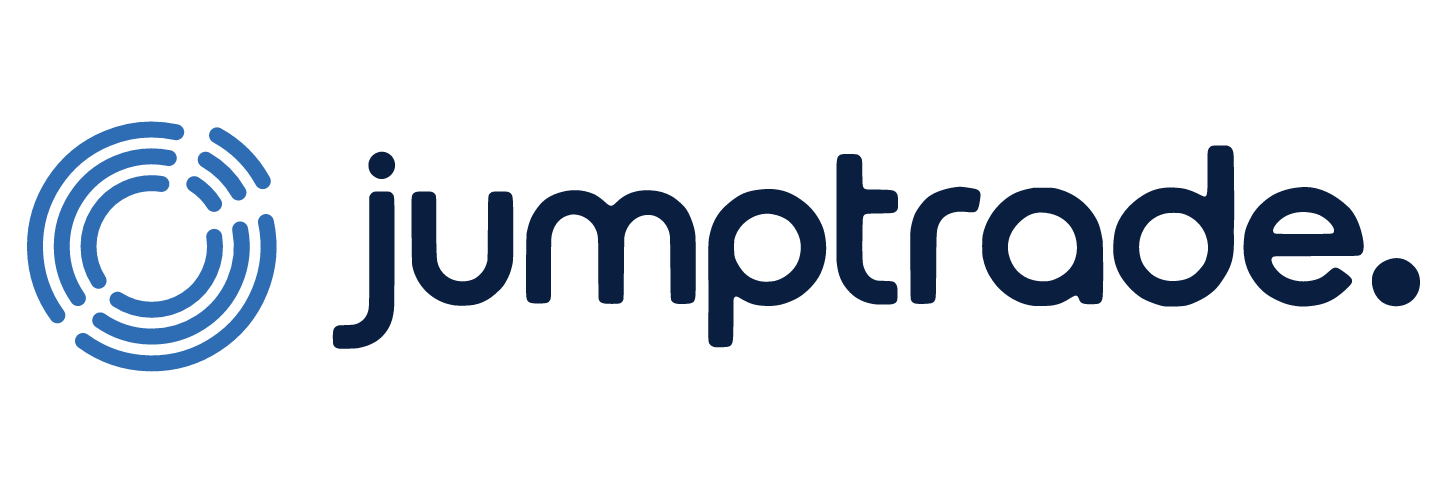
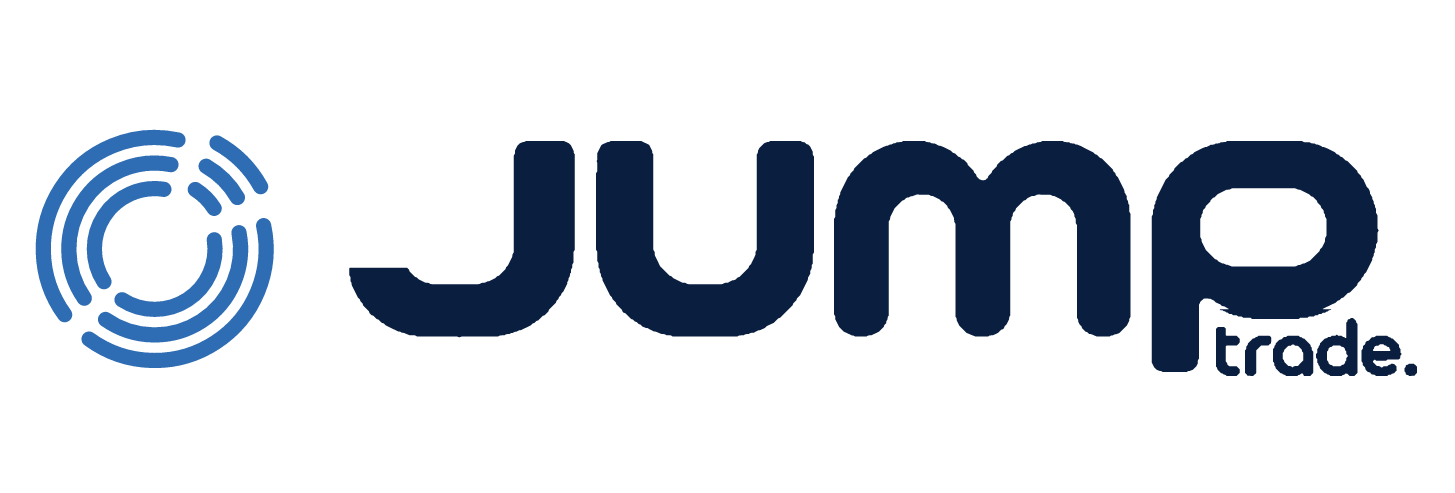
Keep the JUMP + trade. lockup exactly; only its circles become tile D's rings
Jason's correction: no 'jumptrade.' wordmark. The lockup is the a876967 jump-lockup.svg byte-for-byte (viewBox, JUMP, trade.)
with only the two-tone circles replaced by tile D's 9 white arcs, same centre (112,112) and outer size (111) as the old circles.
Applied everywhere the branch touched: v2 header/sidebar, landing, share tile, all emails + invite + unsubscribe, classic
lockups; rings alone for mark-only spots. Header/email image sizes back to the lockup's aspect (129x26, 240x49, 180x37).

Changed region(s): [[0.2165, 0.2738, 0.9897, 0.7606], [0.0, 0.2434, 0.1856, 0.7606]]

diff --git a/web/v2/v2.js b/web/v2/v2.js
@@ -210,7 +210,7 @@ const RIB="<svg class=\"ribbon\" width=\"160\" height=\"236\" viewBox=\"0 0 160 
   const skel = (n) => Array.from({ length: n || 3 }, (_, i) => '<div class="skel" style="width:' + (90 - i * 15) + '%"></div>').join('');
   // first-load placeholder rows, each as tall as the row that replaces it, so nothing below jumps when the data lands
   const skelRows = (n, h) => '<div class="card rows" style="padding:2px 14px">' + Array.from({ length: n }, (_, i) => '<div class="row skr" style="min-height:' + h + 'px!important"><div class="skel" style="width:' + (78 - (i % 3) * 14) + '%"></div></div>').join('') + '</div>';
-  const topbar = () => '<div class="top tc"><a class="ib" href="#menu" aria-label="All pages">' + ic('menu') + '</a><span class="brand"><img src="/v2/img/jump-lockup.svg?v=5" alt="jumptrade." width="141" height="26"></span><div class="acts">' + (REAL || !/^(today|portfolio)$/.test(route().v) ? '' : DEMO) + (V2_STAGE >= 3 ? '<a class="ib" href="#alerts" aria-label="Alerts">' + ic('bell') + (alertCount() ? '<em class="bdot"></em>' : '') + '</a>' : '<a class="ib" href="#calendar" aria-label="Alerts and events">' + ic('bell') + '<em class="bdot"></em></a>') + '</div></div>';
+  const topbar = () => '<div class="top tc"><a class="ib" href="#menu" aria-label="All pages">' + ic('menu') + '</a><span class="brand"><img src="/v2/img/jump-lockup.svg?v=5" alt="jumptrade." width="129" height="26"></span><div class="acts">' + (REAL || !/^(today|portfolio)$/.test(route().v) ? '' : DEMO) + (V2_STAGE >= 3 ? '<a class="ib" href="#alerts" aria-label="Alerts">' + ic('bell') + (alertCount() ? '<em class="bdot"></em>' : '') + '</a>' : '<a class="ib" href="#calendar" aria-label="Alerts and events">' + ic('bell') + '<em class="bdot"></em></a>') + '</div></div>';
   const backbar = (title, href) => '<div class="top"><div style="display:flex;align-items:center;gap:6px;min-width:0"><a class="ib" style="margin-left:-10px" href="' + href + '" aria-label="Back">' + ic('back', 22) + '</a><b class="tbt">' + title + '</b></div><div class="acts">' + (REAL || route().v !== 'connect' ? '' : DEMO) + '</div></div>';
   const head = (t, sub) => { const p = t.lastIndexOf(' '); return '<h1>' + (p > 0 ? t.slice(0, p) + ' <em>' + t.slice(p + 1) + '</em>' : '<em>' + t + '</em>') + '</h1>' + (sub ? '<p class="sub">' + sub + '</p>' : ''); };
   const sh = (t, link, href, icon, th) => '<div class="sh"><h2><span class="shi">' + ic(icon || 'layers', 16) + '</span>' + ((th || href) && (th || href) !== '#hold' && (th || href) !== '#edit' ? '<a class="sht" href="' + (th || href) + '">' + t + '</a>' : t) + '</h2>' + (link ? '<a href="' + href + '">' + link + '</a>' : '') + '</div>';

diff --git a/worker/mails.js b/worker/mails.js
@@ -116,7 +116,7 @@ export const CSS = 'a[x-apple-data-detectors],u+#body a,#MessageViewBody a{color
 // The whole email. {{UNSUB}} and {{UNSUB_ALL}} are filled in per recipient when it's sent.
 export function shell(o) {
   const html = '<!DOCTYPE html><html><head><meta charset="utf-8"><meta name="viewport" content="width=device-width,initial-scale=1"><meta name="color-scheme" content="light only"><meta name="format-detection" content="telephone=no,date=no,address=no,email=no,url=no"><meta name="x-apple-disable-message-reformatting"><title>' + E(o.subject) + '</title><style>' + CSS + '</style></head><body id="body">' +
-    '<div style="display:none;max-height:0;overflow:hidden;opacity:0">' + E(o.pre || '') + '&#8204;&nbsp;&#8204;&nbsp;&#8204;&nbsp;</div><div class="ph"><div class="hd" style="background-color:#0d2a52;background-image:linear-gradient(170deg,#163a6b,#071A36);color:#ffffff"><img src="' + ORIGIN + '/v2/img/email-logo-rings1118.png" alt="jumptrade." width="240" height="44" style="display:block;width:240px;max-width:100%;height:auto;border:0;color:#ffffff;font-size:22px;font-weight:700">' +
+    '<div style="display:none;max-height:0;overflow:hidden;opacity:0">' + E(o.pre || '') + '&#8204;&nbsp;&#8204;&nbsp;&#8204;&nbsp;</div><div class="ph"><div class="hd" style="background-color:#0d2a52;background-image:linear-gradient(170deg,#163a6b,#071A36);color:#ffffff"><img src="' + ORIGIN + '/v2/img/email-logo-rings1118.png" alt="jumptrade." width="240" height="49" style="display:block;width:240px;max-width:100%;height:auto;border:0;color:#ffffff;font-size:22px;font-weight:700">' +
     '<div class="kind">' + E(TYPES[o.type].name) + '</div><div class="hdd">' + ND(o.dateLine) + '</div>' + (o.headline ? '<div class="hdt" style="color:#ffffff">' + ND(o.headline) + '</div>' : '') +
     (o.tiles || '') + (o.sub ? '<div class="hdm">' + ND(o.sub) + '</div>' : '') + '</div><div class="body">' + o.cards.filter(Boolean).join('') +
     '<a class="btn" href="' + ORIGIN + '/' + (o.link || '#today') + '" style="color:#ffffff;text-decoration:none">See everything in jumptrade.</a></div>' +

diff --git a/worker/index.js b/worker/index.js
@@ -1265,7 +1265,7 @@ async function inviteReqRoutes(url, req, env) {
     const I = (await vget(env, 'invites')) || {}; I[h] = { label: r.name + ' (requested)', created: Date.now(), exp: Date.now() + 14 * 864e5 }; await vput(env, 'invites', I);
     const link = 'https://jumptrade.app/#invite=' + code; const nm = String(r.name).replace(/[<>&"]/g, '');
     const html = '<!doctype html><html><body style="margin:0;background:#ffffff;font-family:-apple-system,Segoe UI,Helvetica,Arial,sans-serif;color:#0B1B33"><table width="100%" cellpadding="0" cellspacing="0" style="max-width:520px;margin:0 auto;padding:28px 22px"><tr><td>' +
-      '<div style="background:#04122A;border-radius:14px;padding:18px 20px"><img src="https://jumptrade.app/v2/img/email-logo-rings1118.png" alt="jumptrade." width="180" height="33" style="display:block;width:180px;height:auto;border:0;color:#ffffff;font-size:20px;font-weight:700"></div>' +
+      '<div style="background:#04122A;border-radius:14px;padding:18px 20px"><img src="https://jumptrade.app/v2/img/email-logo-rings1118.png" alt="jumptrade." width="180" height="37" style="display:block;width:180px;height:auto;border:0;color:#ffffff;font-size:20px;font-weight:700"></div>' +
       '<h1 style="font-size:24px;margin:26px 0 8px">You’re in, ' + nm + '.</h1><p style="font-size:16px;line-height:24px;margin:0 0 20px;color:#33445C">Here’s your invite to the jumptrade beta: live movers and why they’re moving, what the big funds just bought, and paper portfolios you can track.</p>' +
       '<a href="' + link + '" style="display:inline-block;background:#1E4F94;color:#ffffff;text-decoration:none;font-weight:600;font-size:16px;padding:14px 22px;border-radius:12px">Join jumptrade</a>' +
       '<p style="font-size:13px;line-height:19px;color:#6B7A90;margin:22px 0 0">The link works once, for you, and expires in two weeks. On iPhone, open it in Safari, then Share → Add to Home Screen.</p><p style="font-size:12px;color:#8A97A8;margin:18px 0 0">Market data for research. Not investment advice.</p></td></tr></table></body></html>';

diff --git a/web/landing.js b/web/landing.js
@@ -8,7 +8,7 @@
   const shortD = (iso) => { const d = new Date(iso + 'T12:00:00'); return isFinite(d) ? d.toLocaleDateString('en-US', { month: 'short', day: 'numeric' }) : ''; };
 
   const html = () => '<div class="lp">' +
-    '<header class="lpTop"><img src="/v2/img/jump-lockup.svg?v=5" alt="jumptrade." width="141" height="26"><button class="lpLink" data-lp="code">Sign in</button></header>' +
+    '<header class="lpTop"><img src="/v2/img/jump-lockup.svg?v=5" alt="jumptrade" width="129" height="26"><button class="lpLink" data-lp="code">Sign in</button></header>' +
     '<section class="lpHero"><div class="lpPitch">' +
       '<h1>Know before you jump.</h1>' +
       '<p class="lpSub">See what’s moving right now, why it’s moving, and what the biggest funds just bought. One fast app for people who trade.</p>' +

diff --git a/tools/brand_rings/make.py b/tools/brand_rings/make.py
@@ -1,8 +1,6 @@
-"""jumptrade. rings brand set (Nov 18): the app tile D rings next to the white 'jumptrade.' wordmark, everywhere.
-
-Rings: the exact 9 arcs from tools/app_icon/icon-512.svg (tile D: radii 222/316/410, stroke 56, on a 1024 grid).
-Wordmark: the white rounded 'jumptrade.' from the logo Jason picked (the right-hand part of /workspace/jumptrade-logo-white.svg,
-embedded below so this script runs from the repo alone).
+"""jumptrade. rings brand set (Nov 18): the existing lockup (big rounded 'JUMP' + small 'trade.' under the P, exactly as in
+web/v2/img/jump-lockup.svg at a876967, kept here as jump_lockup_a876967.svg) with ONLY its two-tone circles swapped for
+app tile D's rings: the exact 9 white arcs from tools/app_icon/icon-512.svg, same centre and outer size as the old circles.
 
 Run from the repo root:  python3 tools/brand_rings/make.py
 Needs: resvg_py, Pillow; playwright + Chrome for the share tile (it uses the Poppins font in web/fonts).
@@ -18,27 +16,24 @@ HERE = os.path.dirname(os.path.abspath(__file__))
 ICON = open(os.path.join(ROOT, 'tools/app_icon/icon-512.svg')).read()
 ARCS = re.findall(r'<path d="(M[^"]+)" fill="none" stroke="#FFFFFF" stroke-width="56.00"', ICON)
 assert len(ARCS) == 9, len(ARCS)
-WORD = open(os.path.join(HERE, 'wordmark.d')).read().strip()  # 'jumptrade.' outline, x 202..674, y 16..104
+OLD = open(os.path.join(HERE, 'jump_lockup_a876967.svg')).read()
+# old circles: centre (112,112), outer edge 104 + 14/2 = 111 inside the group 'translate(0 -2.4) scale(0.8471)'
+RINGS_START = OLD.index('<g transform="translate(0 -2.4) scale(0.8471)"'); RINGS_END = OLD.index('<g transform="translate(241.3 0)">')
+TILE_OUTER = 410 + 28  # tile D outer ring radius + half its stroke
 
-# lockup geometry (units): rings diameter 108 centred at (54, 60); wordmark starts 24 to the right of the rings
-RD, RCX, RCY, GAP = 108.0, 54.0, 60.0, 24.0
-K = RD / 876.0  # 876 = outer edge of the 410 ring incl. half the 56 stroke, both sides
-WX = RD + GAP - 202.0
-VB_W, VB = RD + GAP + 472.0 + 2, '0 4 %.1f 112' % (RD + GAP + 472.0 + 2)
-
-def rings(fill='#FFFFFF', cx=RCX, cy=RCY, k=K, extra=''):
+def rings(fill='#FFFFFF', cx=512, cy=512, k=1.0):
     p = ''.join('<path d="%s"/>' % d for d in ARCS)
-    return ('<g transform="translate(%.3f %.3f) scale(%.6f) translate(-512 -512)" fill="none" stroke="%s" stroke-width="56" stroke-linecap="round"%s>%s</g>'
-            % (cx, cy, k, fill, extra, p))
+    return ('<g transform="translate(%.3f %.3f) scale(%.6f) translate(-512 -512)" fill="none" stroke="%s" stroke-width="56" stroke-linecap="round">%s</g>'
+            % (cx, cy, k, fill, p))
 
-def word(fill='#FFFFFF'):
-    return '<path transform="translate(%.1f 0)" fill="%s" fill-rule="evenodd" d="%s"/>' % (WX, fill, WORD)
-
-def lockup(ring='#FFFFFF', wm='#FFFFFF', defs=''):
-    return '<svg xmlns="http://www.w3.org/2000/svg" viewBox="%s">%s%s%s</svg>' % (VB, defs, rings(ring), word(wm))
+def lockup(ring='#FFFFFF', wm='#fff', defs=''):
+    new = '<g transform="translate(0 -2.4) scale(0.8471)">' + rings(ring, 112, 112, 111.0 / TILE_OUTER) + '</g>'
+    word = OLD[RINGS_END:].replace('fill="#fff"', 'fill="%s"' % wm)
+    head = OLD[:RINGS_START] + defs
+    return head + new + word
 
 def mark(stroke='#FFFFFF', defs=''):  # the rings alone, square, edge to edge
-    return '<svg xmlns="http://www.w3.org/2000/svg" viewBox="74 74 876 876">%s%s</svg>' % (defs, rings(stroke, 512, 512, 1.0))
+    return '<svg xmlns="http://www.w3.org/2000/svg" viewBox="74 74 876 876">%s%s</svg>' % (defs, rings(stroke))
 
 GRAD_ICE = '<defs><linearGradient id="g" gradientUnits="userSpaceOnUse" x1="74" y1="950" x2="950" y2="74"><stop offset="0" stop-color="#5B9BEA"/><stop offset=".55" stop-color="#93C0F6"/><stop offset="1" stop-color="#E1F0FF"/></linearGradient></defs>'
 GRAD_MID = '<defs><linearGradient id="g" gradientUnits="userSpaceOnUse" x1="74" y1="950" x2="950" y2="74"><stop offset="0" stop-color="#2E6DB4"/><stop offset=".5" stop-color="#5B9BEA"/><stop offset="1" stop-color="#93C0F6"/></linearGradient></defs>'
@@ -67,15 +62,15 @@ def main():
     tile = ICON.replace('<svg xmlns="http://www.w3.org/2000/svg" width="1024" height="1024" viewBox="0 0 1024 1024">',
                         '<svg xmlns="http://www.w3.org/2000/svg" viewBox="0 0 1024 1024"><clipPath id="rr"><rect width="1024" height="1024" rx="228"/></clipPath><g clip-path="url(#rr)">').replace('</svg>', '</g></svg>')
     save('v2/img/jump-icon.svg', tile)               # tile D with rounded corners
-    # emails: 3x of 240x44 so it stays sharp on phones; transparent, white, sits on the navy email header
-    em = png(white, 726); save('v2/img/email-logo-rings1118.png', em)
+    # emails: 3x of 240x49 so it stays sharp on phones; transparent, white, sits on the navy email header
+    em = png(white, 720); save('v2/img/email-logo-rings1118.png', em)
     save('v2/img/email-logo.png', png(white, 325))   # the older email name, in case an old email is still opened
     # the sign-in / install mark (jmMark): the rings in swoop blues so they read on light and dark
     mk = png(mark('url(#g)', GRAD_MID), 232); save('v2/img/mark-rings.png', mk); save('v2/img/mark-blue.png', fit(mk, (161, 116)))
     # classic app: same names and sizes as before
     save('img/jump-mark.png', fit(png(mark('url(#g)', GRAD_ICE), 426), (716, 426)))
     save('img/jump-mark-light.png', fit(png(mark('url(#g)', GRAD_DEEP), 426), (716, 426)))
-    save('img/jump-trade.png', fit(png(lockup('url(#g)', '#FFFFFF', GRAD_ICE.replace('74', '0').replace('950', '112')), 1400), (1455, 493)))
+    save('img/jump-trade.png', fit(png(lockup(), 1400), (1455, 493)))
     save('img/jump-trade-light.png', fit(png(lockup('#2E6DB4', '#0A1F40'), 1400), (1455, 493)))
     # favicon: tile D, rounded
     save('img/favicon.png', png(tile, 64))
